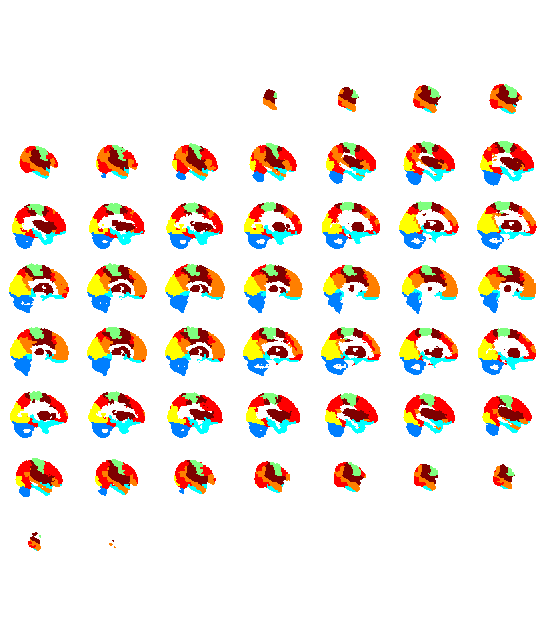
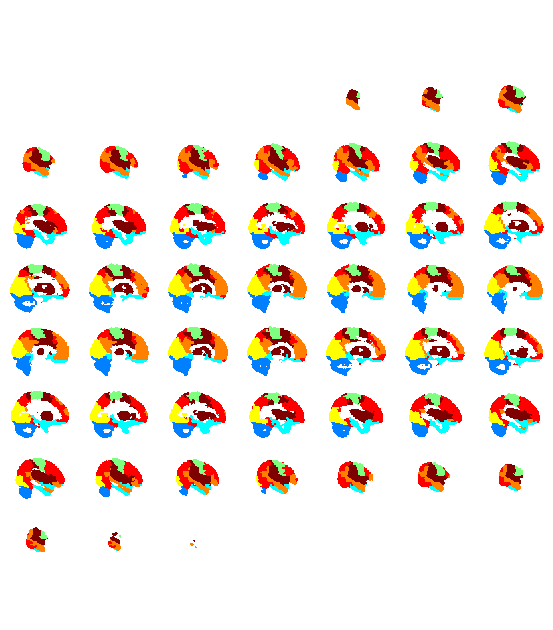
Added an option to add a colormap to the viewer, along with examples.

diff --git a/brainsprite.js b/brainsprite.js
@@ -42,6 +42,9 @@ function brainsprite(params) {
   brain.origin = typeof params.origin !== 'undefined' ? params.origin : {X: 0, Y: 0, Z: 0};
   brain.voxelSize = typeof params.voxelSize !== 'undefined' ? params.voxelSize : 1;
   
+  // Colorbar size parameters
+  brain.heightColorBar = 0.04;
+  
   // Font parameters
   brain.sizeFont = 0.075;
   brain.colorFont = typeof params.colorFont !== 'undefined' ? params.colorFont : "#FFFFFF";
@@ -113,6 +116,24 @@ function brainsprite(params) {
       brain.overlay.opacity = typeof params.overlay.opacity !== 'undefined' ? params.overlay.opacity : 1;
   } else {
       brain.overlay = false;
+  };
+  
+  //**************//  
+  // The colormap //
+  //**************//
+  params.colorMap = typeof params.colorMap !== 'undefined' ? params.colorMap: false;
+  if (params.overlay) {
+      // Initialize the overlay
+      brain.colorMap = {};
+      // Get the sprite
+      brain.colorMap.img = document.getElementById(params.colorMap.img); 
+      // Set min / max
+      brain.colorMap.min = params.colorMap.min; 
+      brain.colorMap.max = params.colorMap.max;
+      // Set visibility
+      params.colorMap.hide = typeof params.colorMap.hide !== 'undefined' ? params.colorMap.hide: false;
+  } else {
+      brain.colorMap.hide = true;
   };
   
   //***************************************//
@@ -216,6 +237,17 @@ function brainsprite(params) {
           // Redraw the coronal slice in the canvas at screen resolution
           brain.context.drawImage(brain.overlay.canvasY,
                 0, 0, brain.overlay.nbSlice.X, brain.overlay.nbSlice.Z, brain.widthCanvas.X, (brain.heightCanvas.max-brain.heightCanvas.Y)/2, brain.widthCanvas.Y, brain.heightCanvas.Y );
+        }
+        
+        // Add colorbar
+        if (!brain.colorMap.hide) {
+          // draw the colorMap on the coronal slice at screen resolution
+          brain.context.drawImage(brain.colorMap.img,
+                0, 0, brain.colorMap.img.width, 1, Math.round(brain.widthCanvas.X + brain.widthCanvas.Y*0.2) , Math.round(brain.heightCanvas.max * brain.heightColorBar / 2), Math.round(brain.widthCanvas.Y*0.6) , Math.round(brain.heightCanvas.max * brain.heightColorBar));
+          brain.context.font = sizeFontPixels + "px Arial";
+          brain.context.fillStyle = brain.colorFont;
+          brain.context.fillText(brain.colorMap.min,brain.widthCanvas.X+(brain.widthCanvas.Y*0.2),Math.round( (brain.heightCanvas.max*brain.heightColorBar*2) + (3/4)*(sizeFontPixels) )); 
+          brain.context.fillText(brain.colorMap.max,brain.widthCanvas.X+(brain.widthCanvas.Y*0.8)-brain.context.measureText(brain.colorMap.max).width,Math.round( (brain.heightCanvas.max*brain.heightColorBar*2) + (3/4)*(sizeFontPixels) )); 
         }
         
         // Add Y coordinates on the slice

diff --git a/examples/example_colormap.html b/examples/example_colormap.html
@@ -6,10 +6,10 @@
 <body>
   <div id="div_viewer">
     <canvas id="3Dviewer"> <!-- this is the canvas that will feature the brain slices -->
-    <img id="spriteImg" class="hidden" src="spriteWhite.jpg"> <!-- load a hidden version of the sprite image that includes all (sagital) brain slices -->
-    <img id="overlayImg" class="hidden" src="dmnSprite.png"> <!-- another sprite image, with an overlay-->
-    <img id="colorMap" class="hidden" src="dmnSprite_cm.png"> <!-- another sprite image, with an overlay-->
-  </div>
+    <img id="spriteImg" class="hidden" src="sprite.jpg"> <!-- load a hidden version of the sprite image that includes all (sagital) brain slices -->
+    <img id="overlayParcellation" class="hidden" src="basc_cambridge_sc7.png"> <!-- another sprite image, with an overlay-->
+    <img id="colorMap" class="hidden" src="basc_cambridge_sc7_cm.png"> <!-- another sprite image, with an overlay-->
+</div>
 
   <script type="text/javascript" src="../assets/jquery-1.9.1/jquery.min.js"></script>  <!-- JQuery is used in this example, line 18, but is not actually used in brainsprite.js --> 
   <script type="text/javascript" src="../brainsprite.js"></script>       
@@ -22,21 +22,16 @@
     var brain = brainsprite({
       canvas: "3Dviewer", // That is the ID of the canvas to build slices into
       sprite: "spriteImg", // That is the ID of the sprite image that includes all (sagital) brain slices
-      flagCoordinates: true, // turn on the slice coordinates
-      origin: {X: 98, Y:134, Z:72}, // Coordinates of the origin of the volume, i.e. point with world coordinates (0,0,0)
-      voxelSize: 1, // voxel size. Only isotropic volumes are supported
       nbSlice: { 'Y':233 , 'Z':189 },
-      colorBackground: "#FFFFFF",
-      colorFont: "#000000",
       overlay: {
-        sprite: "overlayImg", // That is the ID of the sprite image to overlay on the brain
+        sprite: "overlayParcellation", // That is the ID of the sprite image to overlay on the brain
         nbSlice: {'Y':79 , 'Z':63 },
-        opacity: 0.7
+        opacity: 0.5,
       },
       colorMap: {
         img: "colorMap", // That is the ID of the image with the colormap
-        min: 0.2,
-        max: 0.66,
+        min: 1,
+        max: 7,
       },
     });
   });
